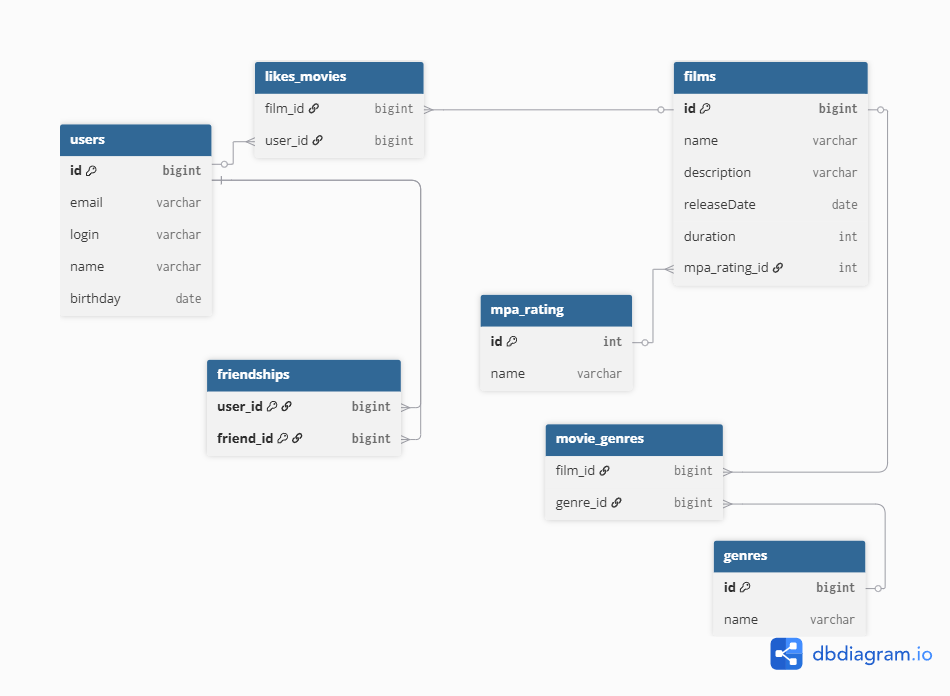
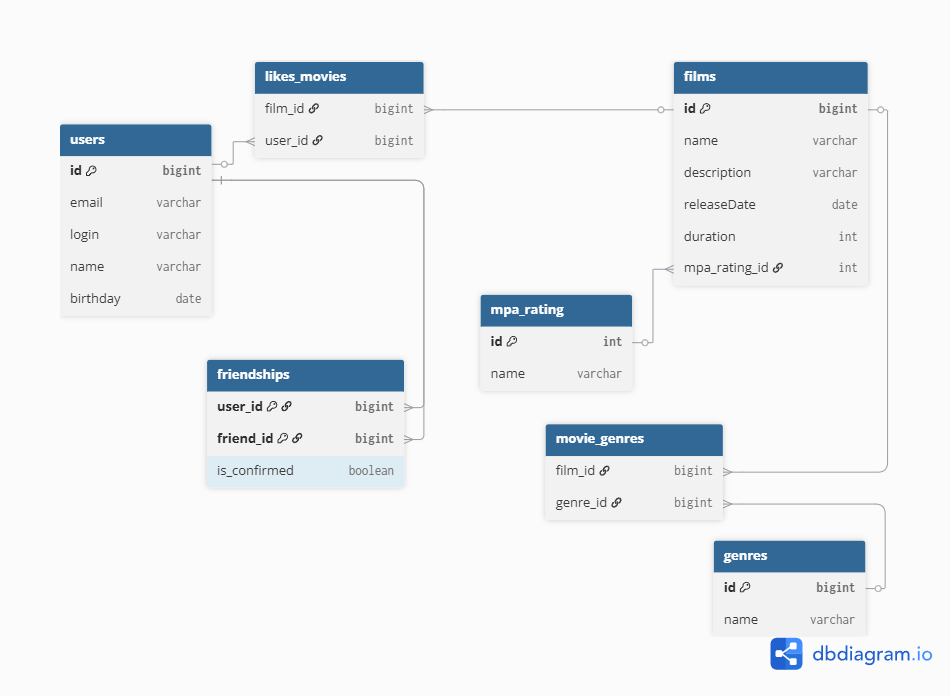
Добавить описание БД. Добавить правильную ER-диаграмму

Changed region(s): [[0.2137, 0.2716, 0.4579, 0.7241]]

diff --git a/README.md b/README.md
@@ -3,6 +3,25 @@ Template repository for Filmorate project.
 
 ![Схема базы данных](images/database_schema.png)
 
+Описание базы данных
+
+База данных хранит информацию о фильмах, пользователях и их взаимодействии.
+Таблицы:
++ films — фильмы: название, описание, дата выхода, длительность, рейтинг MPA
++ users — пользователи: email, логин, имя, дата рождения
++ mpa_rating — справочник рейтингов MPA (G, PG, PG-13, R, NC-17)
++ genres — справочник жанров
++ movie_genres — связь фильмов и жанров (многие ко многим)
++ likes_movies — лайки пользователей к фильмам (многие ко многим)
++ friendships — связи между пользователями: user_id, friend_id, is_confirmed (подтверждена ли дружба)
+
+Ключевые связи:
+
++ У фильма один рейтинг MPA, но много жанров
++ Пользователь может лайкать много фильмов
++ Дружба сохраняется в одном направлении — подтвержденная дружба означает, что оба добавили друг друга
+
+
 Запрос на популярные фильмы
 ```
 SELECT f.id, f.name, COUNT(lm.film_id)
@@ -10,13 +29,14 @@ FROM films AS f
 LEFT OUTER JOIN likes_movies AS lm ON f.id = lm.film_id
 GROUP BY f.id, f.name
 ORDER BY COUNT(lm.film_id) DESC
+LIMIT 3
 ```
 
 Запрос на конкретный фильм (id = 1)
 ```
 SELECT f.name, f.description, f."releaseDate", mr.name
 FROM films AS f
-JOIN mpa_rating AS mr ON f.mpa_rating = mr.id
+JOIN mpa_rating AS mr ON f.mpa_rating_id = mr.id
 WHERE f.id = 1
 ```
 